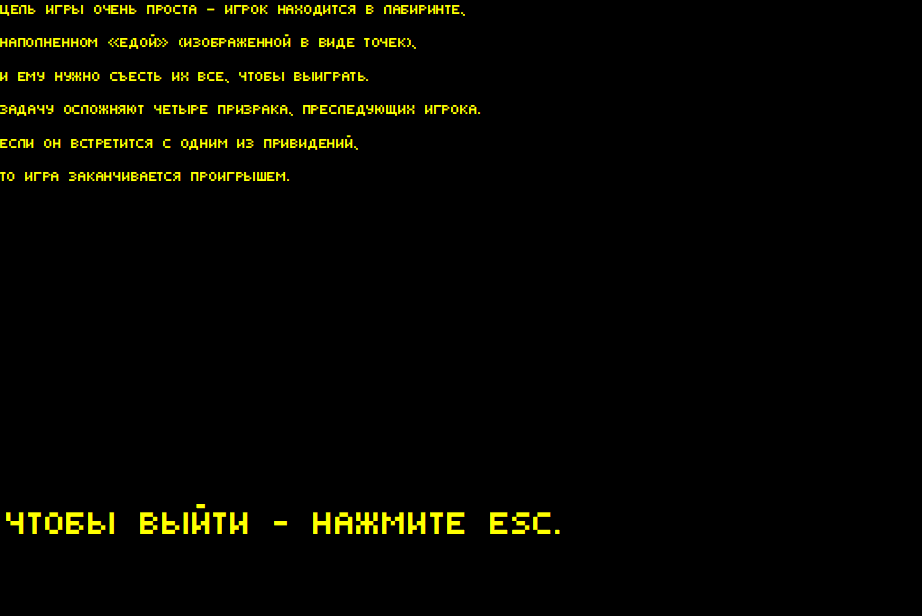
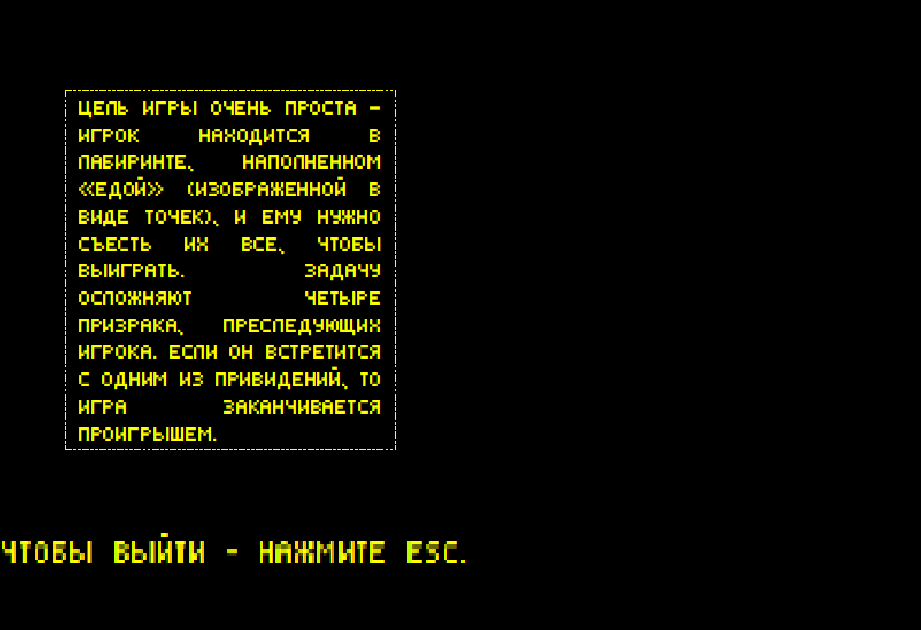
The menu has been finalized once again.

diff --git a/coding/menu.cpp b/coding/menu.cpp
@@ -8,7 +8,7 @@ void menu(RenderWindow & window) {
 	menuTexture1.loadFromFile("C:\\OOP\\PacWoman\\picture\\play.png");
 	menuTexture2.loadFromFile("C:\\OOP\\PacWoman\\picture\\description_game.png");
 	menuTexture3.loadFromFile("C:\\OOP\\PacWoman\\picture\\exit.png");
-	aboutTexture.loadFromFile("C:\\OOP\\PacWoman\\picture\\aboutgamepng.png");
+	aboutTexture.loadFromFile("C:\\OOP\\PacWoman\\picture\\aboutgame.png");
 	menuBackground.loadFromFile("C:\\OOP\\PacWoman\\picture\\pacwoman.png");
 	wallTexture.loadFromFile("C:\\OOP\\PacWoman\\picture\\wall.png");
 	Sprite menuText(menuTexture), menu1(menuTexture1), menu2(menuTexture2), menu3(menuTexture3), about(aboutTexture), menuBg(menuBackground);
